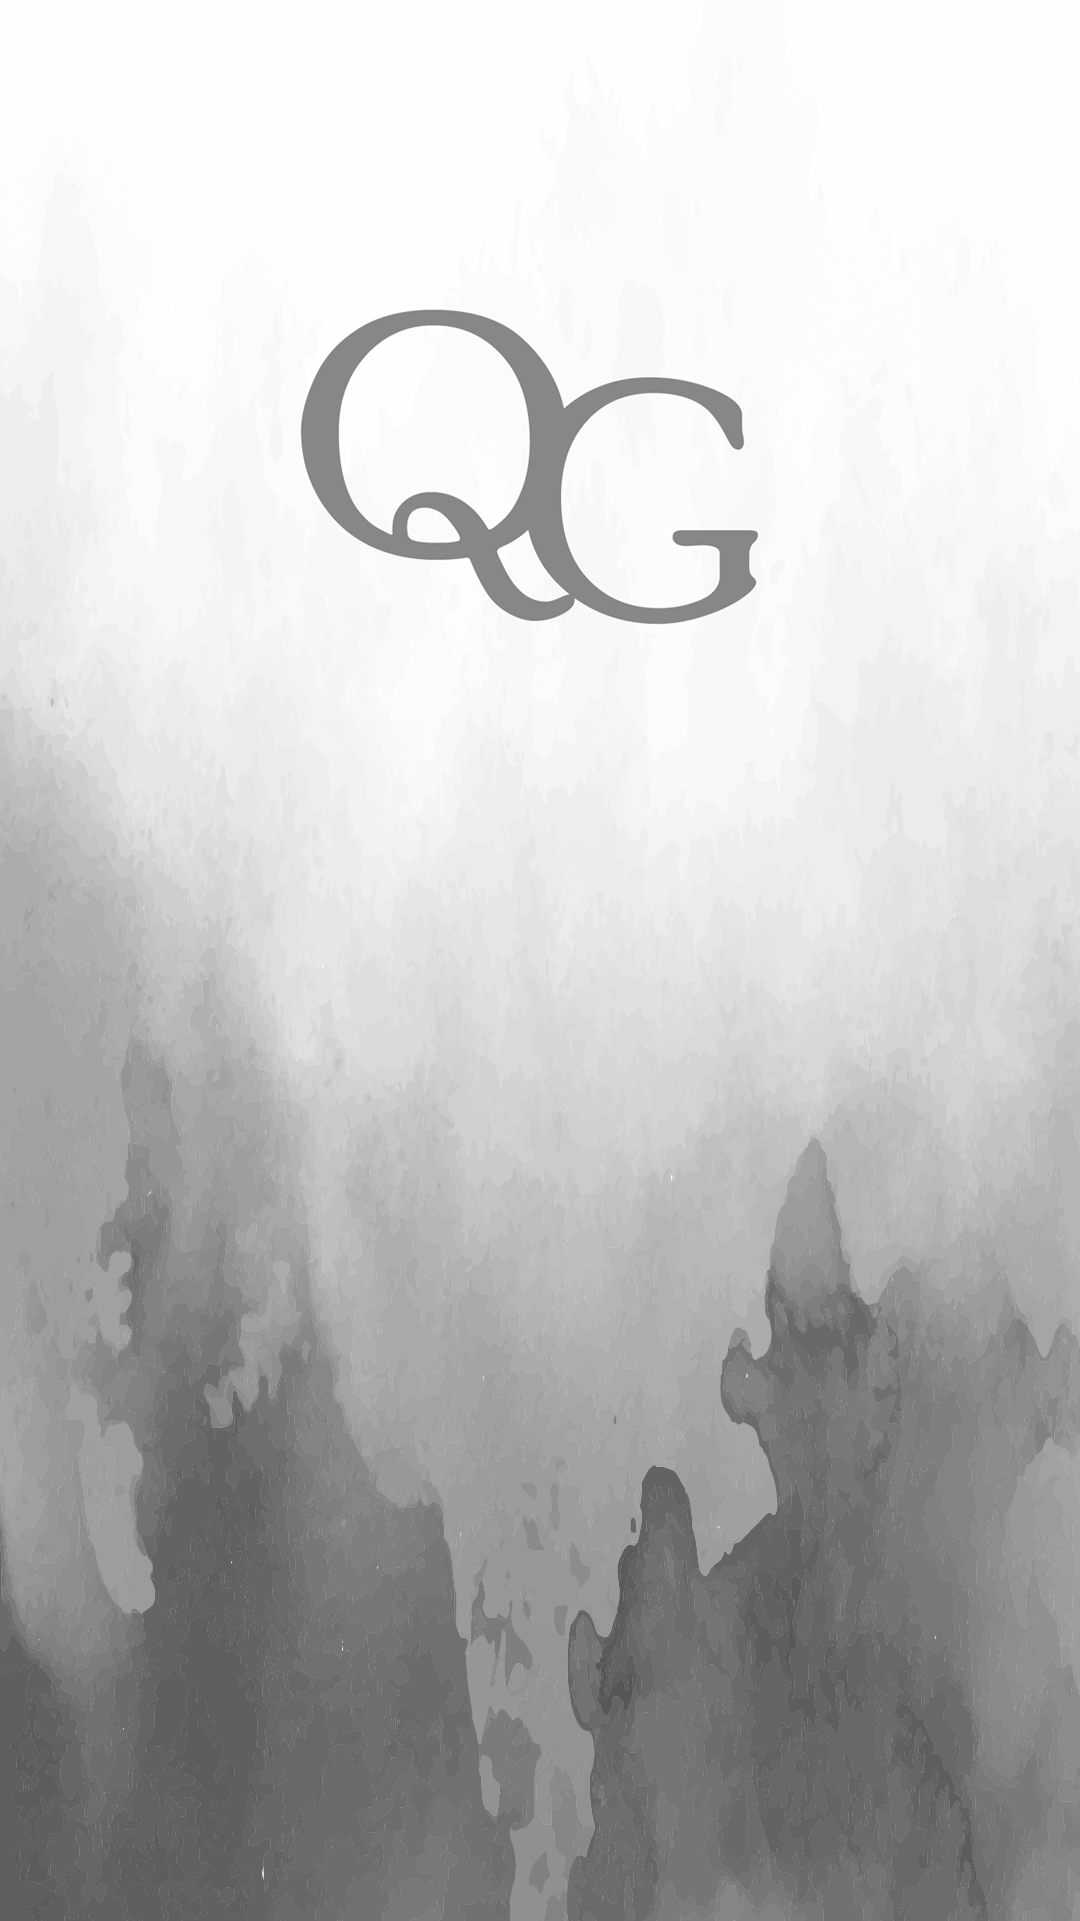
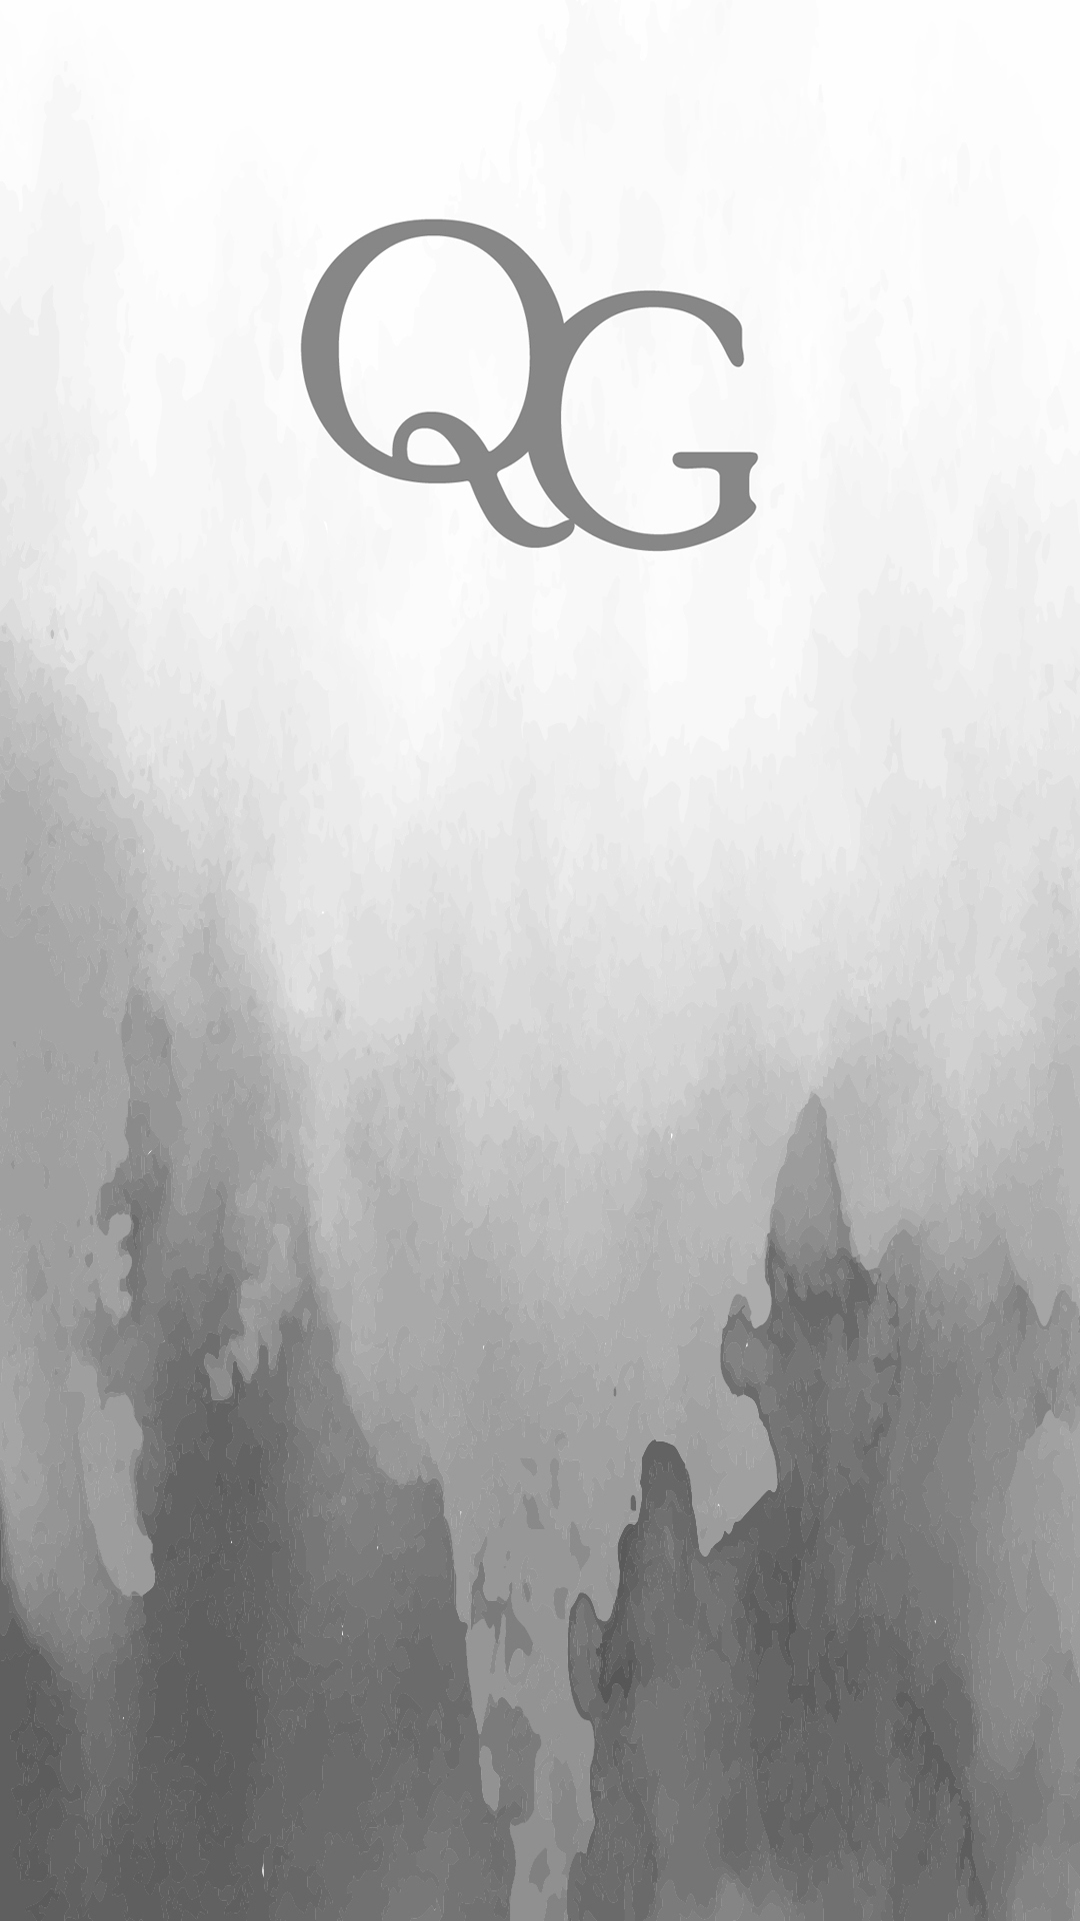
qonita ghifari announcement

diff --git a/css/style.css b/css/style.css
@@ -29,6 +29,8 @@
   src: url(../asset/font/Qalistha.ttf);
 }
 
+@import url('https://fonts.googleapis.com/css2?family=Oswald&display=swap');
+
 /* mongolian baiti kw */
 @import url('https://fonts.googleapis.com/css2?family=Fraunces:wght@300&family=Playfair+Display&display=swap');
 /* invited */
@@ -172,7 +174,7 @@ img{
   justify-content: center;
   align-items: center;
   text-align: center;
-  bottom: 5em;
+  bottom: 8em;
   position: absolute;
 }
 
@@ -465,6 +467,11 @@ img{
 
 .akad-resepsi .resepsi img{
   width: 60%;
+}
+
+.akad-resepsi .akad p,
+.akad-resepsi .resepsi p{
+  font-family: 'Oswald', sans-serif;
 }
 
 .sorry-protokol{
@@ -1148,7 +1155,7 @@ img{
     width: 100vw;
     text-align: center;  
     position: absolute;
-    bottom: 3em;
+    bottom: 7em;
   }
 
   .title a{
